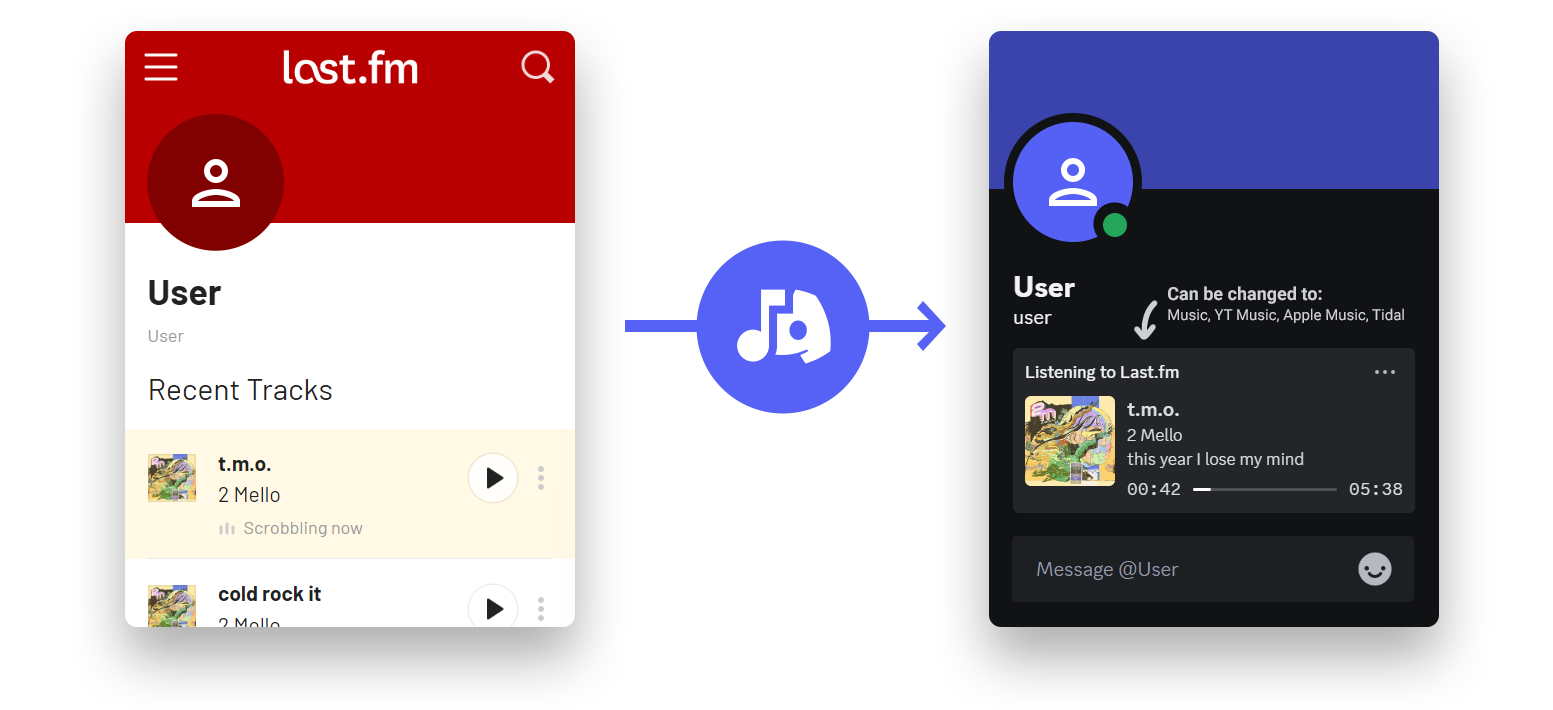
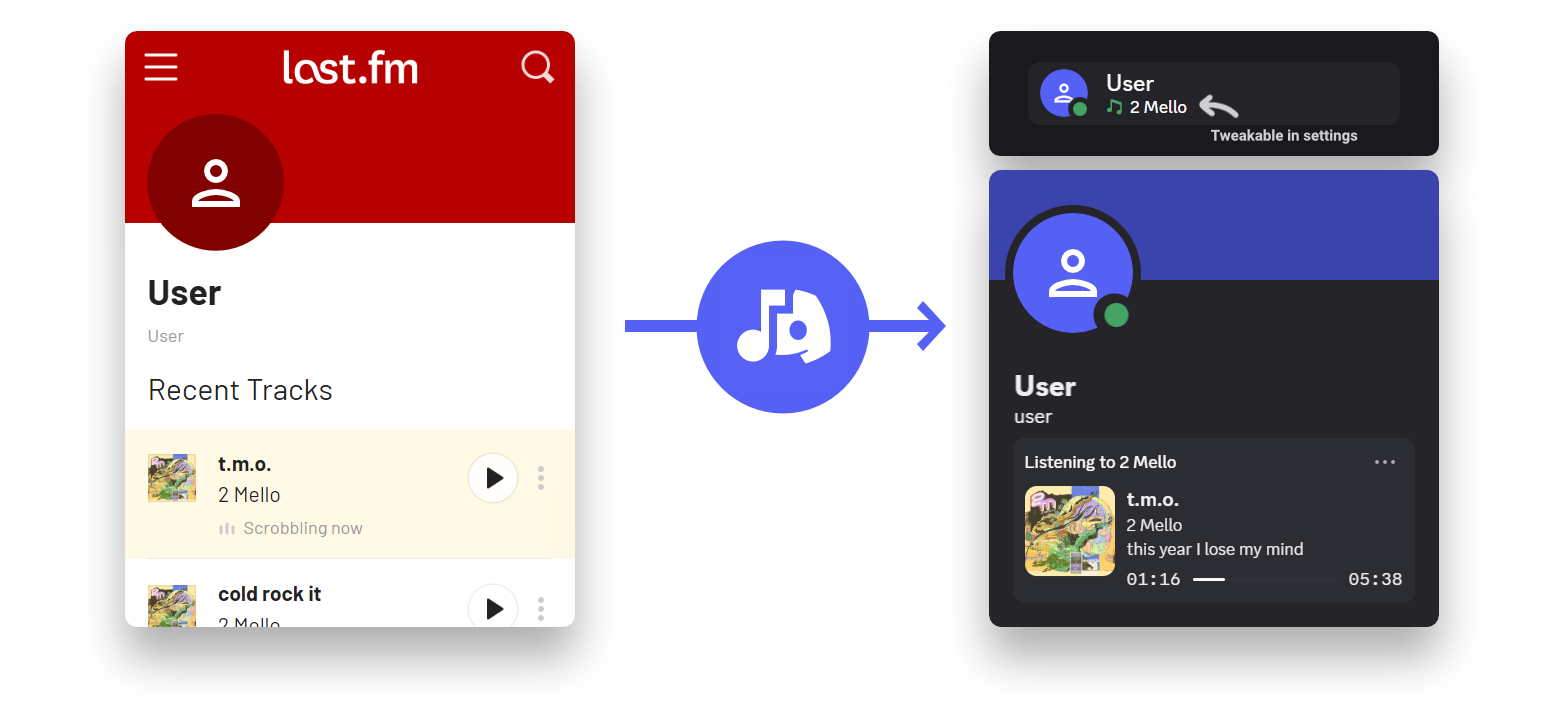
Update readme

Changed region(s): [[0.6182, 0.031, 0.9272, 0.8366]]

diff --git a/.github/README.md b/.github/README.md
@@ -17,6 +17,6 @@ Get [Python 3.10+](https://www.python.org/downloads/) and [upx (optional but sma
 - Run the included `build.bat` in the folder for building
 
 ## Interacting with the program
-At the start, the program will request your Last.fm username and API. After that, it runs as a small icon in the tray bar, at the bottom right. You can right-click it to change settings (e.g. hide the profile button, make it run at startup), or open the log file if there are any issues.
+At the start, the program will request your Last.fm username and API. After that, it runs as a small icon in the tray bar, at the bottom right. You can right-click it to change settings (e.g. change status name, make it run at startup), or open the log file if there are any issues.
 
 ![](tray_icon.png)
